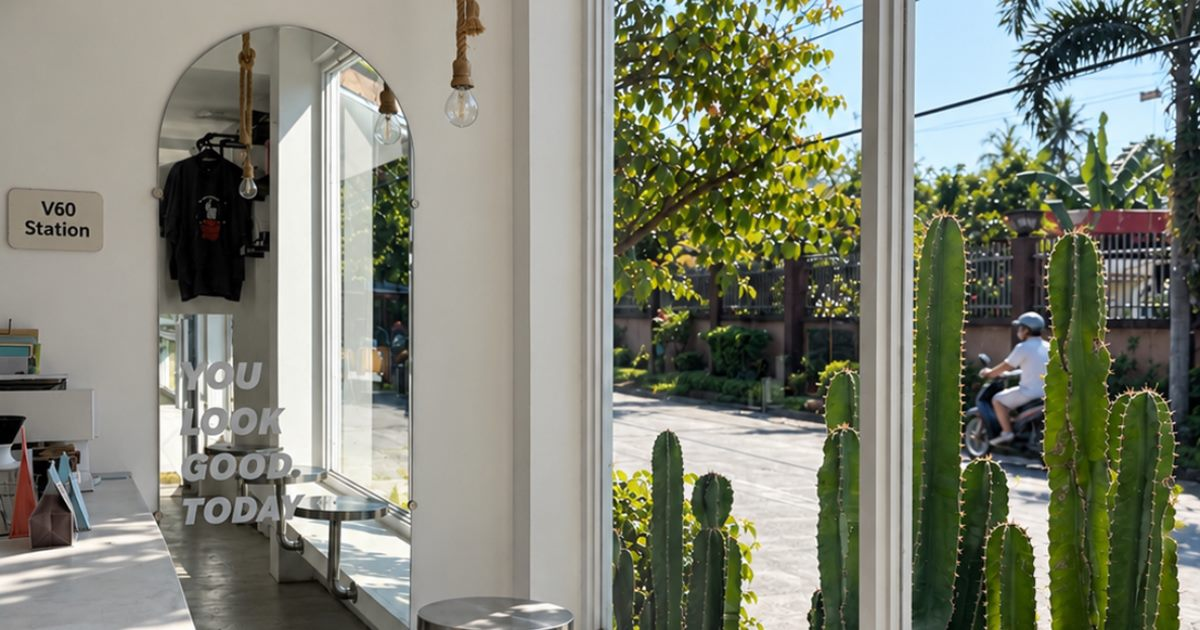
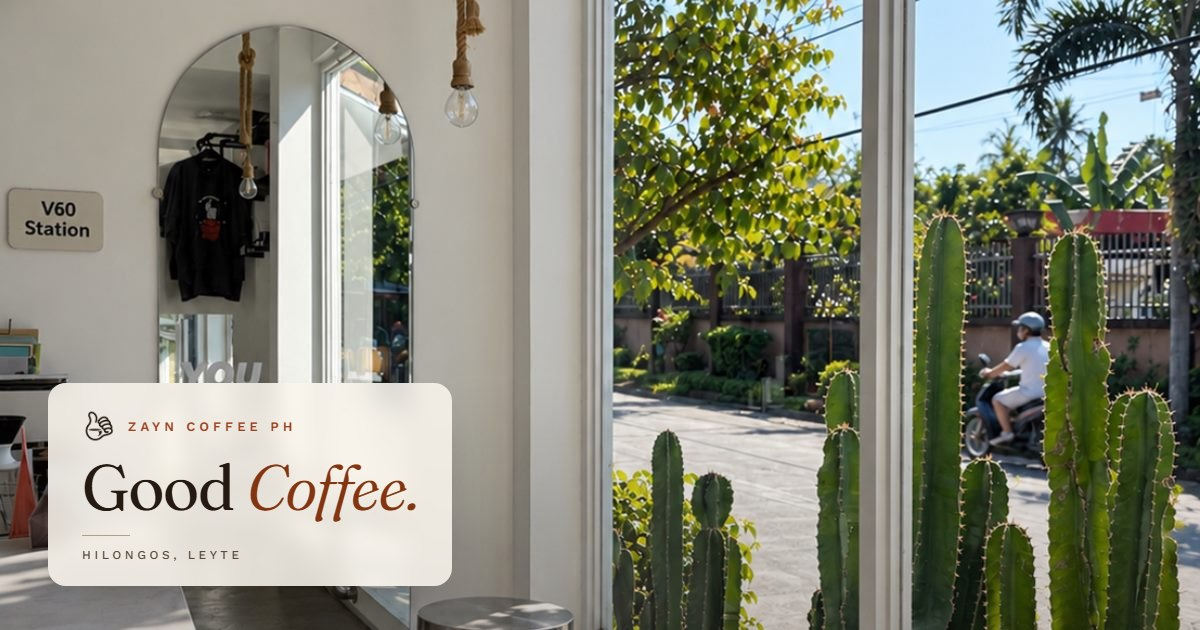
Add aesthetic text overlay to the social sharing preview
Single IMG_3618 photo with a frosted cream card (Zayn Coffee PH, Good
Coffee., Hilongos, Leyte). Image cache version bumped to v=5.

diff --git a/index.html b/index.html
@@ -12,8 +12,8 @@
 <!-- ===== Social / link preview =====
      Public URL is currently the GitHub Pages address. If a custom domain is connected,
      replace https://lendezstudio.github.io/Zayn-Coffee-PH/ in canonical, og:url, og:image and twitter:image.
-     ?v=4 on the image makes Facebook/Messenger fetch the new preview instead of a cached one.
-     Image: IMG_3618 cropped to 1200x630 by tools/optimize-images.ps1. -->
+     ?v=5 on the image makes Facebook/Messenger fetch the new preview instead of a cached one.
+     Image: IMG_3618 (tools/optimize-images.ps1) + text card (tools/og-template.html, rendered by tools/make-og-image.ps1). -->
 <link rel="canonical" href="https://lendezstudio.github.io/Zayn-Coffee-PH/">
 <meta property="og:url" content="https://lendezstudio.github.io/Zayn-Coffee-PH/">
 <meta property="og:type" content="website">
@@ -21,17 +21,17 @@
 <meta property="og:locale" content="en_PH">
 <meta property="og:title" content="Zayn Coffee PH | Café in Hilongos, Leyte">
 <meta property="og:description" content="Bringing a city-inspired coffee experience to Hilongos, Leyte, with quality drinks, a calm atmosphere, and a space to work or unwind.">
-<meta property="og:image" content="https://lendezstudio.github.io/Zayn-Coffee-PH/assets/img/og/zayn-coffee-og.jpg?v=4">
-<meta property="og:image:secure_url" content="https://lendezstudio.github.io/Zayn-Coffee-PH/assets/img/og/zayn-coffee-og.jpg?v=4">
+<meta property="og:image" content="https://lendezstudio.github.io/Zayn-Coffee-PH/assets/img/og/zayn-coffee-og.jpg?v=5">
+<meta property="og:image:secure_url" content="https://lendezstudio.github.io/Zayn-Coffee-PH/assets/img/og/zayn-coffee-og.jpg?v=5">
 <meta property="og:image:type" content="image/jpeg">
 <meta property="og:image:width" content="1200">
 <meta property="og:image:height" content="630">
-<meta property="og:image:alt" content="Sunlit window seating with an arched mirror and cacti outside at Zayn Coffee PH in Hilongos, Leyte">
+<meta property="og:image:alt" content="Zayn Coffee PH, Good Coffee, Hilongos, Leyte, over a photo of sunlit window seating with an arched mirror and cacti">
 <meta name="twitter:card" content="summary_large_image">
 <meta name="twitter:title" content="Zayn Coffee PH | Café in Hilongos, Leyte">
 <meta name="twitter:description" content="Bringing a city-inspired coffee experience to Hilongos, Leyte, with quality drinks, a calm atmosphere, and a space to work or unwind.">
-<meta name="twitter:image" content="https://lendezstudio.github.io/Zayn-Coffee-PH/assets/img/og/zayn-coffee-og.jpg?v=4">
-<meta name="twitter:image:alt" content="Sunlit window seating with an arched mirror and cacti outside at Zayn Coffee PH in Hilongos, Leyte">
+<meta name="twitter:image" content="https://lendezstudio.github.io/Zayn-Coffee-PH/assets/img/og/zayn-coffee-og.jpg?v=5">
+<meta name="twitter:image:alt" content="Zayn Coffee PH, Good Coffee, Hilongos, Leyte, over a photo of sunlit window seating with an arched mirror and cacti">
 
 <!-- ===== Favicons (from the official Zayn Coffee logo; generated by tools/optimize-images.ps1) ===== -->
 <link rel="icon" href="favicon.ico" sizes="16x16 32x32 48x48">

diff --git a/tools/og-template.html b/tools/og-template.html
@@ -1,0 +1,51 @@
+<!DOCTYPE html>
+<!--
+  Zayn Coffee PH - social preview (Open Graph) image template, 1200x630.
+  One photo (IMG_3618, made by tools/optimize-images.ps1 as og/src-window-cacti.jpg)
+  with a soft text overlay. Render to assets/img/og/zayn-coffee-og.jpg with:
+    powershell -ExecutionPolicy Bypass -File tools/make-og-image.ps1
+  Text sits bottom-left over a warm gradient so the arched mirror, window and
+  cacti stay clear, and it still reads when platforms crop the preview to a square.
+-->
+<html lang="en">
+<head>
+<meta charset="UTF-8">
+<link href="https://fonts.googleapis.com/css2?family=Fraunces:ital,opsz,wght@0,9..144,400;1,9..144,350&family=Work+Sans:wght@500;600&display=block" rel="stylesheet">
+<style>
+  *{ box-sizing: border-box; margin: 0; }
+  html, body{ width: 1200px; height: 630px; overflow: hidden; }
+  body{ position: relative; font-family: 'Work Sans', sans-serif; font-variation-settings: "opsz" 48; }
+  .photo{ position: absolute; inset: 0; width: 100%; height: 100%; object-fit: cover; }
+  /* faint warm wash at the bottom so the card sits naturally */
+  .wash{ position: absolute; inset: 0; background: linear-gradient(0deg, rgba(36,26,18,0.22) 0%, rgba(36,26,18,0) 40%); }
+  /* frosted cream card, bottom-left */
+  .text{
+    position: absolute; left: 48px; bottom: 44px; color: #241A12;
+    padding: 26px 34px 24px; border-radius: 18px;
+    background: rgba(251,247,239,0.86);
+    -webkit-backdrop-filter: blur(10px); backdrop-filter: blur(10px);
+    box-shadow: 0 24px 50px -28px rgba(36,26,18,0.55);
+  }
+  .brand{ display: flex; align-items: center; gap: 12px; margin-bottom: 12px; }
+  .brand img{ width: 34px; height: 34px; }
+  .brand span{ font-size: 13px; color: #9C4220; font-weight: 600; letter-spacing: 0.32em; text-transform: uppercase; }
+  h1{
+    font-family: 'Fraunces', Georgia, serif; font-weight: 400;
+    font-size: 64px; line-height: 1; letter-spacing: -0.02em;
+  }
+  h1 em{ font-style: italic; font-weight: 350; color: #833511; }
+  .rule{ width: 48px; height: 1px; background: rgba(138,107,78,0.6); margin: 16px 0 12px; }
+  .place{ font-size: 12px; font-weight: 500; letter-spacing: 0.3em; text-transform: uppercase; color: #5C4C3D; }
+</style>
+</head>
+<body>
+  <img class="photo" src="../assets/img/og/src-window-cacti.jpg" alt="">
+  <div class="wash"></div>
+  <div class="text">
+    <div class="brand"><img src="../assets/img/brand/zayn-mark.png" alt=""><span>Zayn Coffee PH</span></div>
+    <h1>Good <em>Coffee.</em></h1>
+    <div class="rule"></div>
+    <p class="place">Hilongos, Leyte</p>
+  </div>
+</body>
+</html>
